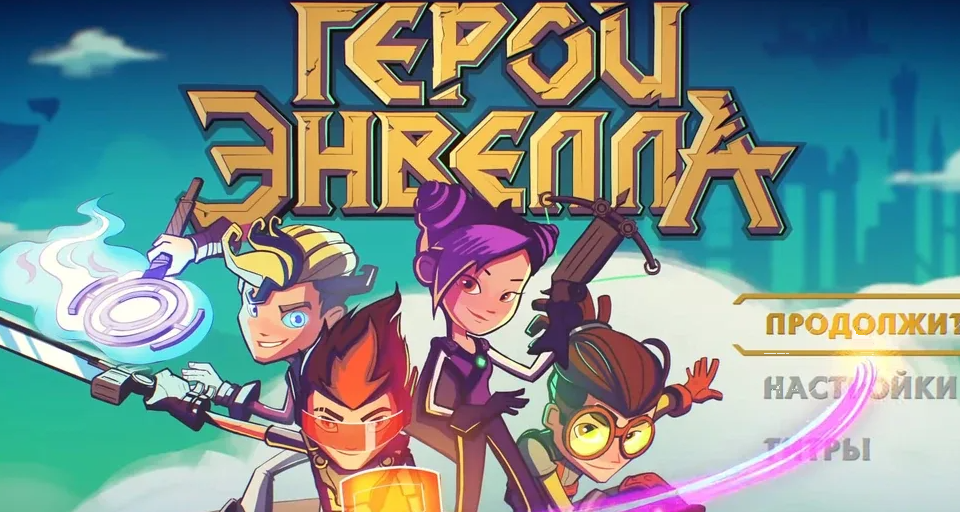
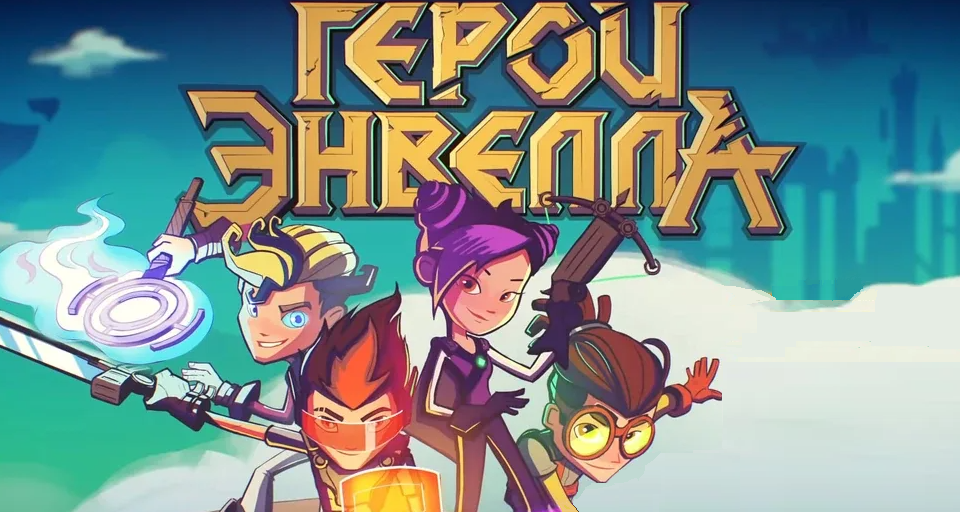
v2.7

Changed region(s): [[0.5625, 0.5625, 1.0, 1.0]]

diff --git a/main.py b/main.py
@@ -209,6 +209,9 @@ class Game:
         # Стартовое меню; после Esc игровой мир сохраняется и ставится на паузу.
         s.menu_mode = "start"  # start | pause | None
         s.menu_selection = 0
+        s.menu_edit = False
+        s.menu_drag = None
+        s.menu_selected = "new"
         # Ресурсы меню загружаются из assets рядом с исходниками/EXE.
         # Для EXE после сборки редактируйте dist/assets/menu/* — внешние ресурсы имеют приоритет.
         menu_assets = ASSETS / "menu"
@@ -328,12 +331,22 @@ class Game:
         except OSError as exc: print("Не удалось сохранить настройки:", exc)
     def key(s, k):
         if s.menu_mode is not None:
-            if k == pg.K_UP: s.menu_selection = (s.menu_selection - 1) % (3 if s.menu_mode == "pause" else 2); return
-            if k == pg.K_DOWN: s.menu_selection = (s.menu_selection + 1) % (3 if s.menu_mode == "pause" else 2); return
-            if k in (pg.K_RETURN, pg.K_SPACE):
-                options = ["continue", "new", "exit"] if s.menu_mode == "pause" else ["new", "exit"]
-                s.menu_action(options[s.menu_selection]); return
-            if k == pg.K_ESCAPE and s.menu_mode == "pause": s.menu_mode = None
+            if k == pg.K_F3:
+                s.menu_edit = not s.menu_edit
+                s.menu_drag = None
+                return
+            if s.menu_edit:
+                if k in (pg.K_ESCAPE, pg.K_F3):
+                    s.menu_edit = False; s.menu_drag = None; return
+                if k in (pg.K_EQUALS, pg.K_PLUS, pg.K_KP_PLUS, pg.K_MINUS, pg.K_KP_MINUS):
+                    s.resize_menu_button(8 if k in (pg.K_EQUALS, pg.K_PLUS, pg.K_KP_PLUS) else -8)
+                    s.save_settings(); return
+                return
+            # Кнопки главного меню и паузы выбираются только мышью.
+            # Esc закрывает меню паузы и возвращает в забег; навигации стрелками/Enter нет.
+            if k == pg.K_ESCAPE and s.menu_mode == "pause":
+                s.menu_mode = None
+                pg.mouse.set_visible(not SETTINGS.get("mouse_aim", True))
             return
         if s.hud_edit:
             if k == pg.K_F2 or k == pg.K_ESCAPE: s.hud_edit = False; s.hud_drag = None; return
@@ -383,15 +396,84 @@ class Game:
             pg.mouse.set_visible(not SETTINGS.get("mouse_aim", True))
         elif action == "exit":
             pg.quit(); sys.exit()
+    MENU_BUTTONS = {"continue": "ПРОДОЛЖИТЬ", "new": "НОВАЯ ИГРА", "exit": "ВЫХОД"}
+    def menu_layout(s):
+        """Отдельные координаты для главного меню и паузы; сохраняются в data/settings.json."""
+        is_pause = s.menu_mode == "pause"
+        setting_key = "menu_layout_pause" if is_pause else "menu_layout"
+        cfg = SETTINGS.setdefault(setting_key, {})
+        if is_pause:
+            defaults = {
+                "continue": [W // 2 - 150, VIEW_H // 2 - 70, 300, 44],
+                "new": [W // 2 - 150, VIEW_H // 2 - 12, 300, 44],
+                "exit": [W // 2 - 150, VIEW_H // 2 + 46, 300, 44],
+            }
+        else:
+            # Запрошенные координаты главного меню: x, y, width, height.
+            defaults = {
+                "new": [684, 291, 268, 36],
+                "exit": [787, 480, 172, 28],
+            }
+        for name, rect in defaults.items():
+            cfg.setdefault(name, rect[:])
+            if not isinstance(cfg[name], list) or len(cfg[name]) != 4:
+                cfg[name] = rect[:]
+            cfg[name] = [int(v) for v in cfg[name]]
+            cfg[name][0] = max(0, min(W - 1, cfg[name][0]))
+            cfg[name][1] = max(0, min(VIEW_H - 1, cfg[name][1]))
+            cfg[name][2] = max(100, min(700, cfg[name][2]))
+            cfg[name][3] = max(28, min(120, cfg[name][3]))
+            cfg[name][0] = min(cfg[name][0], W - cfg[name][2])
+            cfg[name][1] = min(cfg[name][1], VIEW_H - cfg[name][3])
+        return cfg
+    def resize_menu_button(s, delta):
+        cfg = s.menu_layout(); key = s.menu_selected
+        if key not in cfg: return
+        a = cfg[key]
+        nw, nh = max(100, min(700, a[2] + delta)), max(28, min(120, a[3] + round(delta * 0.22)))
+        cx, cy = a[0] + a[2] // 2, a[1] + a[3] // 2
+        a[:] = [cx - nw // 2, cy - nh // 2, nw, nh]
     def menu_event(s, e):
         if s.menu_mode is None: return
+        options = ["continue", "new", "exit"] if s.menu_mode == "pause" else ["new", "exit"]
+        cfg = s.menu_layout()
+        if s.menu_edit:
+            if e.type == pg.MOUSEBUTTONDOWN and e.button == 1:
+                mx, my = e.pos
+                for action in reversed(options):
+                    rect = pg.Rect(cfg[action])
+                    if rect.collidepoint(mx, my):
+                        s.menu_selected = action
+                        s.menu_drag = (action, mx - rect.x, my - rect.y)
+                        return
+            elif e.type == pg.MOUSEMOTION and s.menu_drag:
+                action, dx, dy = s.menu_drag
+                cfg[action][0] = max(0, min(W - cfg[action][2], e.pos[0] - dx))
+                cfg[action][1] = max(0, min(VIEW_H - cfg[action][3], e.pos[1] - dy))
+                s.save_settings()
+            elif e.type == pg.MOUSEBUTTONUP and e.button == 1:
+                s.menu_drag = None
+            elif e.type == pg.MOUSEBUTTONDOWN and e.button in (4, 5):
+                mx, my = e.pos
+                # Совместимость со старыми событиями колеса мыши.
+                for action in reversed(options):
+                    if pg.Rect(cfg[action]).collidepoint(mx, my):
+                        s.menu_selected = action; break
+                s.resize_menu_button(8 if e.button == 4 else -8)
+                s.save_settings()
+            elif e.type == pg.MOUSEWHEEL:
+                mx, my = pg.mouse.get_pos()
+                for action in reversed(options):
+                    if pg.Rect(cfg[action]).collidepoint(mx, my):
+                        s.menu_selected = action; break
+                if e.y:
+                    s.resize_menu_button(8 if e.y > 0 else -8)
+                    s.save_settings()
+            return
         if e.type == pg.MOUSEBUTTONDOWN and e.button == 1:
             mx, my = e.pos
-            options = ["continue", "new", "exit"] if s.menu_mode == "pause" else ["new", "exit"]
-            y0 = VIEW_H // 2 + 10
-            for i, action in enumerate(options):
-                rect = pg.Rect(W // 2 - 150, y0 + i * 58, 300, 44)
-                if rect.collidepoint(mx, my):
+            for action in options:
+                if pg.Rect(cfg[action]).collidepoint(mx, my):
                     s.menu_action(action); return
     def draw_menu(s):
         if s.menu_mode == "start":
@@ -399,33 +481,44 @@ class Game:
                 s.scr.blit(pg.transform.smoothscale(s.menu_background, (W, VIEW_H)), (0, 0))
             else:
                 s.scr.fill((8, 8, 17))
-            # Лёгкое затемнение повышает читаемость надписей; само изображение остаётся заменяемым.
             s.scr.blit(s.menu_veil, (0, 0))
         else:
             s.scr.blit(s.menu_veil, (0, 0))
-        title = s.big.render("DEAD ROOMS", True, (240, 235, 255))
-        s.scr.blit(title, title.get_rect(center=(W // 2, VIEW_H // 2 - 125)))
-        subtitle = "ГЛАВНОЕ МЕНЮ" if s.menu_mode == "start" else "ПАУЗА"
-        st = s.font.render(subtitle, True, (175, 170, 205))
-        s.scr.blit(st, st.get_rect(center=(W // 2, VIEW_H // 2 - 75)))
+        # В главном меню не рисуем текстовый логотип и подзаголовок:
+        # оформление задаётся полностью изображениями из assets/menu.
+        # В меню паузы оставляем заголовок, чтобы отличать его от стартового экрана.
+        if s.menu_mode != "start":
+            title = s.big.render("DEAD ROOMS", True, (240, 235, 255))
+            s.scr.blit(title, title.get_rect(center=(W // 2, VIEW_H // 2 - 125)))
+            st = s.font.render("ПАУЗА", True, (175, 170, 205))
+            s.scr.blit(st, st.get_rect(center=(W // 2, VIEW_H // 2 - 75)))
         options = [("НОВАЯ ИГРА", "new"), ("ВЫХОД", "exit")] if s.menu_mode == "start" else [("ПРОДОЛЖИТЬ", "continue"), ("НОВАЯ ИГРА", "new"), ("ВЫХОД", "exit")]
-        y0 = VIEW_H // 2 + 10
+        cfg = s.menu_layout()
         mouse = pg.mouse.get_pos()
         for i, (label, action) in enumerate(options):
-            rect = pg.Rect(W // 2 - 150, y0 + i * 58, 300, 44)
+            rect = pg.Rect(cfg[action])
             hovered = rect.collidepoint(mouse)
-            selected = i == s.menu_selection
-            button_img = s.menu_button_selected if (hovered or selected) else s.menu_button
+            selected = False  # больше нет переключения кнопок с клавиатуры
+            button_img = s.menu_button_selected if (hovered or (s.menu_edit and action == s.menu_selected)) else s.menu_button
             if button_img:
                 s.scr.blit(pg.transform.smoothscale(button_img, rect.size), rect.topleft)
             else:
-                col = (92, 76, 130) if hovered or selected else (43, 40, 60)
+                col = (92, 76, 130) if hovered else (43, 40, 60)
                 pg.draw.rect(s.scr, col, rect, border_radius=8)
-                pg.draw.rect(s.scr, (180, 160, 230) if hovered or selected else (95, 88, 120), rect, 2, border_radius=8)
+                pg.draw.rect(s.scr, (180, 160, 230) if hovered else (95, 88, 120), rect, 2, border_radius=8)
             text = s.font.render(label, True, (250, 248, 255))
             s.scr.blit(text, text.get_rect(center=rect.center))
-        s.txt("↑ ↓ — выбор   Enter — подтвердить   Esc — назад", W // 2 - 165, VIEW_H - 28, (175, 170, 195), s.small)
-        # Пользовательский курсор рисуется поверх всего меню; заменяется файлом assets/menu/cursor.png.
+            if s.menu_edit:
+                color = (255, 210, 80) if action == s.menu_selected else (110, 220, 255)
+                pg.draw.rect(s.scr, color, rect, 2)
+                size_label = s.small.render(f"{action}: {rect.w}x{rect.h} ({rect.x},{rect.y})", True, color)
+                s.scr.blit(size_label, (rect.x, max(0, rect.y - 16)))
+        if s.menu_edit:
+            hint = "РЕДАКТОР КНОПОК: перетаскивай мышью · колесо или +/- — размер · F3/Esc — готово"
+            ht = s.small.render(hint, True, (255, 225, 135))
+            s.scr.blit(ht, ht.get_rect(center=(W // 2, VIEW_H - 28)))
+        elif s.menu_mode != "start":
+            s.txt("Мышь — выбор   Esc — назад   F3 — настройка кнопок", W // 2 - 170, VIEW_H - 28, (175, 170, 195), s.small)
         if s.menu_cursor is not None:
             mx, my = pg.mouse.get_pos()
             cursor = s.menu_cursor

diff --git a/README.md b/README.md
@@ -8,6 +8,15 @@
 
 Сборка создаёт `dist/DEAD_ROOMS.exe` и копирует рядом редактируемые папки `dist/assets` и `dist/data`. Эти внешние папки имеют приоритет над встроенными ресурсами, поэтому картинки можно заменять **после сборки**, не пересобирая EXE. Для запущенной игры сначала закройте её, замените файл, затем запустите снова.
 
+### Изменение размера и расположения кнопок меню
+1. Запустите игру и откройте главное меню (или нажмите `Esc` во время забега).
+2. Нажмите `F3` — включится редактор кнопок меню.
+3. Перетаскивайте кнопки мышью, чтобы менять их положение.
+4. Наведите курсор на кнопку и прокрутите колёсико мыши или используйте `+` / `-`, чтобы изменить размер.
+5. Нажмите `F3` или `Esc`, чтобы выйти из редактора. Настройки сохраняются автоматически в `data/settings.json` в разделе `menu_layout`.
+
+Редактор позволяет отдельно настраивать размеры и позиции кнопок «Продолжить», «Новая игра» и «Выход». В собранной версии EXE настройки сохраняются в `dist/data/settings.json`.
+
 ### Оформление меню через PNG
 Если запускаете EXE, меняйте файлы именно в `dist/assets/menu/`. При запуске из исходников меняйте `assets/menu/`:
 - `background.png` — фон главного меню;
